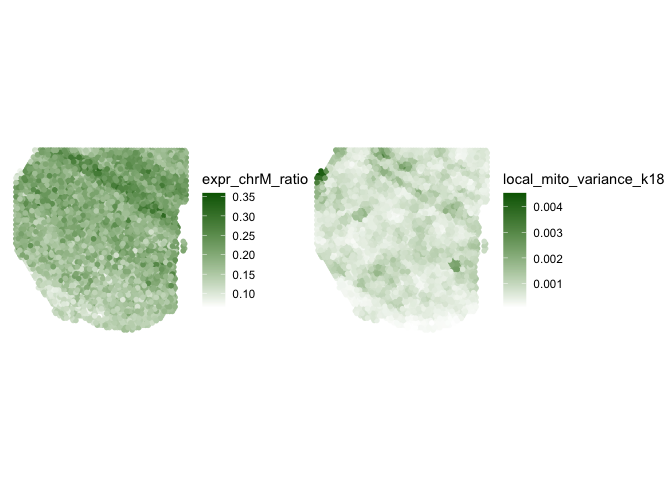
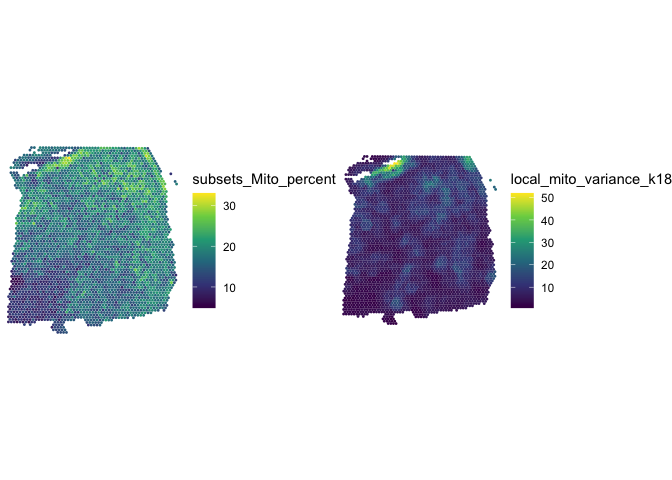
changed README to work with STexampleData.

Changed region(s): [[0.0, 0.2812, 1.0, 0.7188]]

diff --git a/README.md b/README.md
@@ -63,15 +63,28 @@ library(SpotSweeper)
 suppressPackageStartupMessages({
   library(SpatialExperiment)
 })
+#> Warning: package 'S4Vectors' was built under R version 4.3.2
+#> Warning: package 'GenomeInfoDb' was built under R version 4.3.2
+
 
 
 
 # load  Maynard et al DLPFC daatset
-spe.dlpfc <- example_SPE()
-#> 2023-12-14 17:29:10.392273 loading file /Users/mtotty2/Library/Caches/org.R-project.R/R/BiocFileCache/816c26145c00_Human_DLPFC_Visium_processedData_sce_scran_spatialLIBD.Rdata%3Fdl%3D1
+spe <- STexampleData::Visium_humanDLPFC()
+#> see ?STexampleData and browseVignettes('STexampleData') for documentation
+#> loading from cache
 
-# subset to single sample for example
-spe.subset <- subset(spe.dlpfc, ,sample_id == spe.dlpfc$sample_id[1])
+# change from gene id to gene names
+rownames(spe) <- rowData(spe)$gene_name
+
+# show column data before SpotSweepR
+colnames(colData(spe))
+#> [1] "barcode_id"   "sample_id"    "in_tissue"    "array_row"    "array_col"   
+#> [6] "ground_truth" "cell_count"
+
+# drop out-of-tissue spots
+spe <- spe[, spe$in_tissue == 1]
+spe <- spe[, !is.na(spe$ground_truth)]
 ```
 
 SpotSweeper can be run on an SPE object with the following code. This
@@ -80,43 +93,52 @@ outputs the `local_outliers` in the colData of the SPE object. Selecting
 
 ``` r
 
-features <- c('sum_umi' ,'sum_gene', "expr_chrM_ratio")
-spe.subset <- localOutliers(spe.subset, 
-                           features=features,
-                           n_neighbors=36, 
-                           data_output=TRUE,
-                           method="multivariate"
-                           )
+# Identifying the mitochondrial transcripts in our SpatialExperiment.
+is.mito <- rownames(spe)[grepl("^MT-", rownames(spe))]
 
-spe.subset
-#> class: SpatialExperiment 
-#> dim: 33538 4226 
-#> metadata(0):
-#> assays(2): counts logcounts
-#> rownames(33538): ENSG00000243485 ENSG00000237613 ... ENSG00000277475
-#>   ENSG00000268674
-#> rowData names(9): source type ... gene_search is_top_hvg
-#> colnames(4226): AAACAACGAATAGTTC-1 AAACAAGTATCTCCCA-1 ...
-#>   TTGTTTCCATACAACT-1 TTGTTTGTGTAAATTC-1
-#> colData names(81): sample_id Cluster ... expr_chrM_ratio_var LOF
-#> reducedDimNames(6): PCA TSNE_perplexity50 ... TSNE_perplexity80
-#>   UMAP_neighbors15
-#> mainExpName: NULL
-#> altExpNames(0):
-#> spatialCoords names(2) : pxl_col_in_fullres pxl_row_in_fullres
-#> imgData names(4): sample_id image_id data scaleFactor
+# Calculating QC metrics for each spot using scuttle
+spe<- scuttle::addPerCellQCMetrics(spe, subsets=list(Mito=is.mito))
+colnames(colData(spe))
+#>  [1] "barcode_id"            "sample_id"             "in_tissue"            
+#>  [4] "array_row"             "array_col"             "ground_truth"         
+#>  [7] "cell_count"            "sum"                   "detected"             
+#> [10] "subsets_Mito_sum"      "subsets_Mito_detected" "subsets_Mito_percent" 
+#> [13] "total"
+
+# Identifying local outliers suing SpotSweepR
+features <- c('sum' ,'detected', "subsets_Mito_percent")
+spe<- localOutliers(spe, 
+                    features=features,
+                    n_neighbors=36, 
+                    data_output=TRUE,
+                    method="multivariate"
+                    )
+
+# show column data before SpotSweepR
+colnames(colData(spe))
+#>  [1] "barcode_id"                "sample_id"                
+#>  [3] "in_tissue"                 "array_row"                
+#>  [5] "array_col"                 "ground_truth"             
+#>  [7] "cell_count"                "sum"                      
+#>  [9] "detected"                  "subsets_Mito_sum"         
+#> [11] "subsets_Mito_detected"     "subsets_Mito_percent"     
+#> [13] "total"                     "sum_log2"                 
+#> [15] "detected_log2"             "subsets_Mito_percent_log2"
+#> [17] "coords"                    "local_outliers"           
+#> [19] "sum_z"                     "detected_z"               
+#> [21] "subsets_Mito_percent_z"    "LOF"
 ```
 
-Below we can visualize `local_outliers` vs one of the Qc metrics,
-`sum_umi_log2`, using the `escheR` package.
+Below we can visualize `local_outliers` vs one of the QC metrics,
+`sum_log2`, using the `escheR` package.
 
 ``` r
 library(escheR)
 #> Loading required package: ggplot2
 
 # plotting using escheR
-make_escheR(spe.subset) |> 
-  add_fill(var = "sum_umi_log2") |>
+make_escheR(spe) |> 
+  add_fill(var = "sum_log2") |>
   add_ground(var = "local_outliers", stroke = 1) +
   scale_color_manual(
     name = "", # turn off legend name for ground_truth
@@ -137,34 +159,49 @@ Regional artifacts, such as “smears” and tissue tears, can be visualized
 and detected by calculating the local variance of mitochondrial percent
 or ratio.
 
+TODO: add example with regional artifact.
+
 ``` r
 
-features = c("expr_chrM_ratio")
+features = c("subsets_Mito_percent")
 
-spe.subset <- localVariance(spe.subset, 
-                           features=features,
-                           n_neighbors=18, 
-                           name="local_mito_variance_k18"
-                           )
+spe <- localVariance(spe, 
+                     features=features,
+                     n_neighbors=18, 
+                     name="local_mito_variance_k18"
+                     )
+
+# show column data after calculating local variance
+colnames(colData(spe))
+#>  [1] "barcode_id"                   "sample_id"                   
+#>  [3] "in_tissue"                    "array_row"                   
+#>  [5] "array_col"                    "ground_truth"                
+#>  [7] "cell_count"                   "sum"                         
+#>  [9] "detected"                     "subsets_Mito_sum"            
+#> [11] "subsets_Mito_detected"        "subsets_Mito_percent"        
+#> [13] "total"                        "sum_log2"                    
+#> [15] "detected_log2"                "subsets_Mito_percent_log2"   
+#> [17] "coords"                       "local_outliers"              
+#> [19] "sum_z"                        "detected_z"                  
+#> [21] "subsets_Mito_percent_z"       "LOF"                         
+#> [23] "local_mito_variance_k18"      "local_mito_variance_k18_mean"
 ```
 
 ``` r
-library(patchwork)
+library(ggpubr)
 
 # plotting using escheR
-p1 <- make_escheR(spe.subset) |> 
-  add_fill(var = "expr_chrM_ratio") +
-  scale_fill_gradient(low ="white",high =  "darkgreen")
-#> Scale for fill is already present.
-#> Adding another scale for fill, which will replace the existing scale.
+p1 <- make_escheR(spe) |> 
+  add_fill(var = "subsets_Mito_percent", point_size=1)
 
-p2 <- make_escheR(spe.subset) |> 
-  add_fill(var = "local_mito_variance_k18") +
-  scale_fill_gradient(low ="white",high =  "darkgreen")
-#> Scale for fill is already present.
-#> Adding another scale for fill, which will replace the existing scale.
+p2 <- make_escheR(spe) |> 
+  add_fill(var = "local_mito_variance_k18", point_size=1)
 
-p1+p2
+plot_list <- list(p1, p2)
+ggarrange(
+  plotlist = plot_list,
+  ncol = 2, nrow = 1,
+  common.legend = FALSE)
 ```
 
 <img src="man/figures/README-local_variance_plot-1.png" width="100%" />
@@ -179,7 +216,7 @@ Please run this yourself to check for any updates on how to cite
 print(citation("SpotSweeper"), bibtex = TRUE)
 #> To cite package 'SpotSweeper' in publications use:
 #> 
-#>   MicTott (2023). _SpotSweeper: an R package for the automated removal
+#>   MicTott (2024). _SpotSweeper: an R package for the automated removal
 #>   of spot artifacts from spatially-resolved transcriptomics data_.
 #>   doi:10.18129/B9.bioc.SpotSweeper
 #>   <https://doi.org/10.18129/B9.bioc.SpotSweeper>,
@@ -191,13 +228,13 @@ print(citation("SpotSweeper"), bibtex = TRUE)
 #>   @Manual{,
 #>     title = {SpotSweeper: an R package for the automated removal of spot artifacts from spatially-resolved transcriptomics data},
 #>     author = {{MicTott}},
-#>     year = {2023},
+#>     year = {2024},
 #>     url = {http://www.bioconductor.org/packages/SpotSweeper},
 #>     note = {https://github.com/MicTott/SpotSweeper/SpotSweeper - R package version 0.99.0},
 #>     doi = {10.18129/B9.bioc.SpotSweeper},
 #>   }
 #> 
-#>   MicTott (2023). "SpotSweeper: an R package for the automated removal
+#>   MicTott (2024). "SpotSweeper: an R package for the automated removal
 #>   of spot artifacts from spatially-resolved transcriptomics data."
 #>   _bioRxiv_. doi:10.1101/TODO <https://doi.org/10.1101/TODO>,
 #>   <https://www.biorxiv.org/content/10.1101/TODO>.
@@ -207,7 +244,7 @@ print(citation("SpotSweeper"), bibtex = TRUE)
 #>   @Article{,
 #>     title = {SpotSweeper: an R package for the automated removal of spot artifacts from spatially-resolved transcriptomics data},
 #>     author = {{MicTott}},
-#>     year = {2023},
+#>     year = {2024},
 #>     journal = {bioRxiv},
 #>     doi = {10.1101/TODO},
 #>     url = {https://www.biorxiv.org/content/10.1101/TODO},
